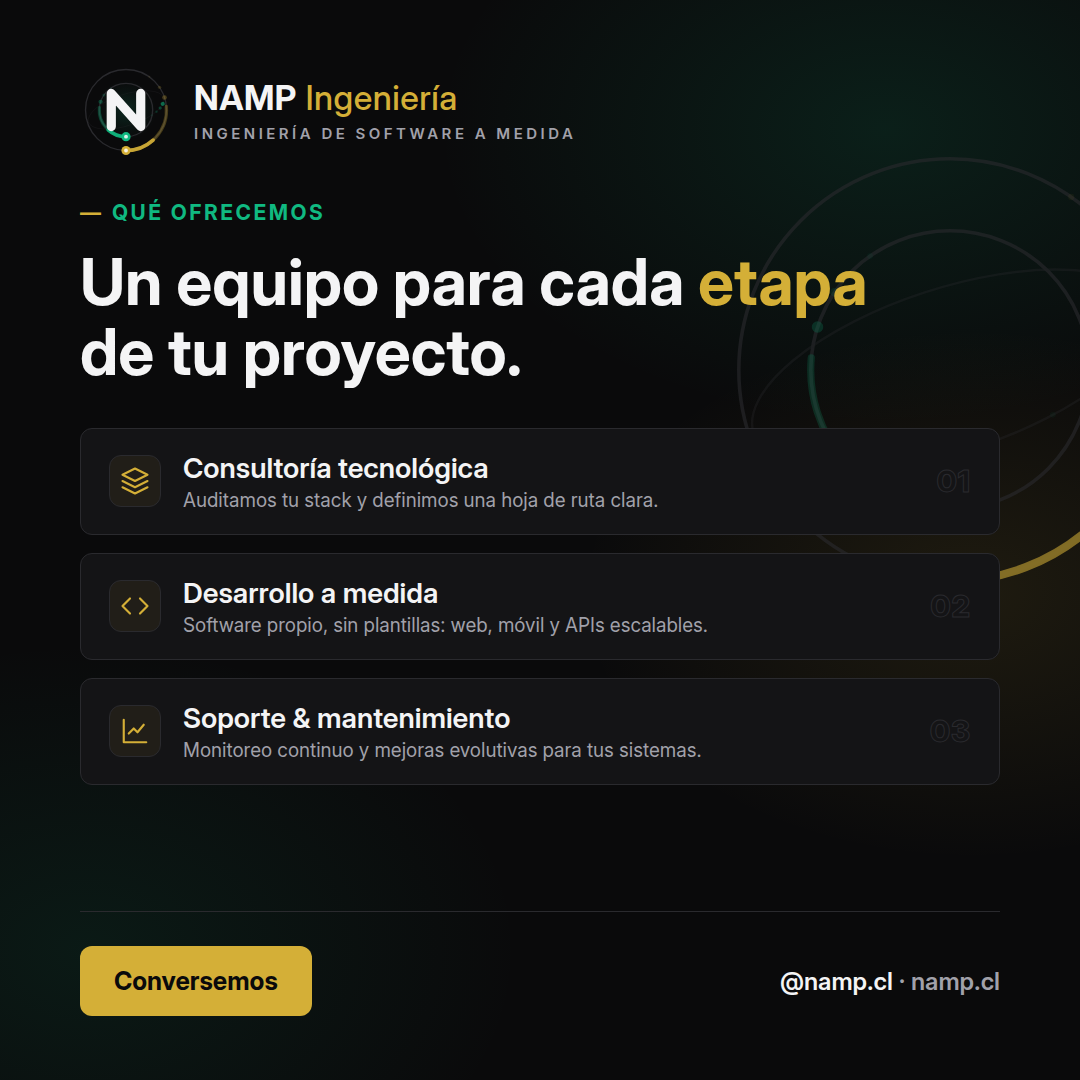
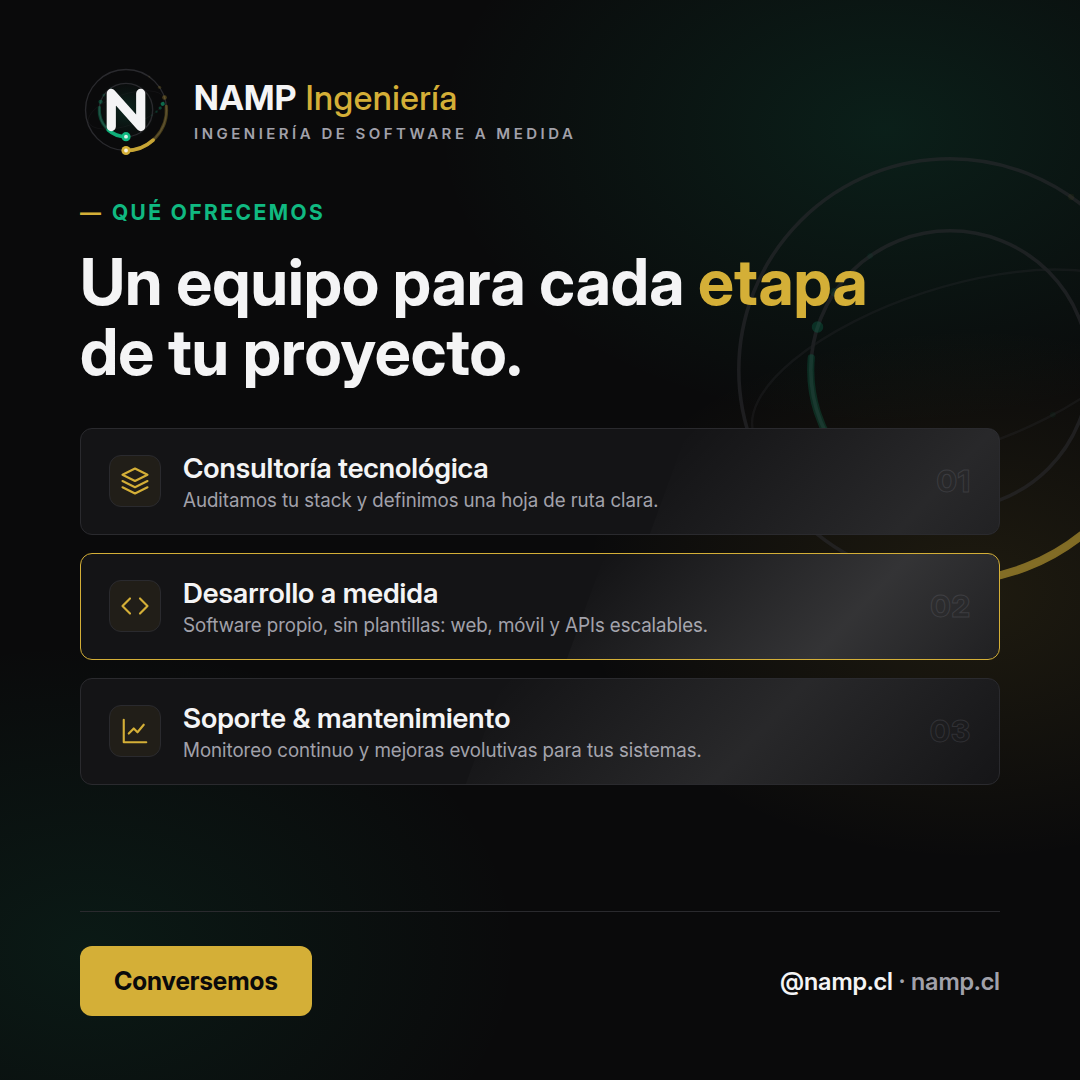
NAMP: efecto de luminosidad de cards en kit IG (post-02)
Sheen del sitio (.home__service::after) replicado congelado en las 3
cards + card central encendida (borde dorado, indice lit) como hover
estatico. Regla documentada en README del kit.

Generated with [Devin](https://devin.ai)

Changed region(s): [[0.6722, 0.4889, 0.9167, 0.6111]]

diff --git a/02_Outputs/NAMP/2026-11-06-media-kit-instagram/post-02-servicios.html b/02_Outputs/NAMP/2026-11-06-media-kit-instagram/post-02-servicios.html
@@ -109,6 +109,8 @@
   /* Lista de servicios — espejo de las cards del sitio (etapa 01/02/03) */
   .services { display: flex; flex-direction: column; gap: 18px; }
   .service {
+    position: relative;
+    overflow: hidden;
     display: flex;
     align-items: center;
     gap: 22px;
@@ -116,6 +118,34 @@
     border: 1px solid var(--border);
     border-radius: 12px;
     padding: 22px 28px;
+  }
+  /* Sheen del sitio (.home__service::after): banda de luz sesgada
+     congelada a mitad de barrido, posicion escalonada por card */
+  .service::after {
+    content: '';
+    position: absolute;
+    top: 0;
+    left: 55%;
+    width: 60%;
+    height: 100%;
+    background: linear-gradient(120deg,
+      transparent 0%,
+      rgba(244,244,245,0.09) 50%,
+      transparent 100%);
+    transform: skewX(-20deg);
+    pointer-events: none;
+  }
+  .service:nth-child(1)::after { left: 64%; }
+  .service:nth-child(3)::after { left: 44%; }
+  /* Estado encendido = hover del sitio: borde dorado + indice lit */
+  .service--lit { border-color: var(--gold); }
+  .service--lit .tile { border-color: var(--gold); }
+  .service--lit .num { -webkit-text-stroke-color: rgba(212,175,55,0.65); }
+  .service--lit::after {
+    background: linear-gradient(120deg,
+      transparent 0%,
+      rgba(244,244,245,0.14) 50%,
+      transparent 100%);
   }
   .service .tile {
     width: 52px; height: 52px;
@@ -277,7 +307,7 @@
           </div>
           <span class="num">01</span>
         </div>
-        <div class="service">
+        <div class="service service--lit">
           <span class="tile">
             <svg viewBox="0 0 24 24" fill="none" stroke-width="1.7" stroke-linecap="round" stroke-linejoin="round">
               <polyline points="16 18 22 12 16 6" />

diff --git a/log.md b/log.md
@@ -106,3 +106,4 @@ Bitácora maestra append-only. Resume lo relevante entre sesiones y apunta al lo
 - **HECHO** — NAMP Instagram: contenido semilla completo — post-01 corregido (3 servicios reales del sitio, no 6), post-02-servicios, post-03-kpp (POS real de demo.namp.cl capturado con Playwright), 4 portadas de destacadas. Toolchain: `render.sh` Linux + Inter empaquetada (`fonts/`+`brand/fonts.css`). Nueva skill propia `contenido-instagram` en store + instalada en repo y vault. Pendiente usuario: Fase 0 (handle/correo/tipo cuenta) → limpieza → publicar. Detalle: [[03_Proyectos/NAMP/log]] (2026-11-18).
 - **DECISIÓN** — NAMP IG Fase 0 resuelta desde namp.cl (sin decisiones nuevas): handle `@namp.cl` (fallbacks nampingenieria/namp_ingenieria), correo contacto@namp.cl, bio=og:description, cuenta profesional. Piezas re-renderizadas con handle en footer — contenido semilla 100% publicable. Solo quedan acciones físicas en la app IG: verificar disponibilidad del handle, limpieza de la cuenta vieja y publicar (2026-11-18).
 - **HECHO** — NAMP Instagram v4: realineación visual completa del media kit al sitio actual tras auditoría del usuario — isotipo cometa del hero, eyebrow con guion dorado, ambient 3 halos, tiles/índices/radios/CTAs idénticos a namp.cl. 14 fuentes HTML/SVG actualizadas, 11 PNG re-renderizados y verificados visualmente, espejo resincronizado. Detalle: [[03_Proyectos/NAMP/log]] (2026-11-18).
+- **HECHO** — NAMP IG: efecto de luminosidad de las cards del sitio portado al media kit — post-02 con sheen congelado en las 3 cards + card central "encendida" (borde dorado, índice lit). Espejo actualizado (2026-11-18).

diff --git a/03_Proyectos/NAMP/log.md b/03_Proyectos/NAMP/log.md
@@ -163,3 +163,4 @@ Bitácora narrativa **append-only**: las entradas nuevas van al final, nunca se 
 - **HECHO** — Auditoría del media kit contra namp.cl en producción (petición del usuario por discrepancias de diseño): el kit arrastraba la iteración visual del 06-11 (arcos planos, 2 glows difuminados, tracking -2px, íconos alternados, índices sólidos, ghost CTA esmeralda). Se actualizaron las 14 fuentes HTML/SVG al sistema actual del sitio: isotipo cometa del hero (tramo caliente+difuso, chispas, núcleo blanco, cometa esmeralda de 5 partículas en el plano orbital), eyebrow con guion dorado `—`, ambient de 3 halos radiales, tiles 44px dorados, índices fantasma, radios 12px, CTA ghost con borde neutro.
 - **HECHO** — Re-render completo (`render.sh`) y revisión visual de las 11 piezas: post-01/02/03, avatar, 4 destacadas, 3 previews de plantilla — sin cortes ni solapes; post-03 mantiene el fix de la columna de texto.
 - **PENDIENTE (usuario)** — Sin cambios: acciones físicas en la app IG (verificar disponibilidad de `@namp.cl`, limpieza de cuenta vieja, setear perfil con los datos resueltos, publicar las 3 piezas).
+- **HECHO** — Efecto de luminosidad del sitio portado al kit: `.home__service::after` (banda de luz 120° skewX -20°) replicado como sheen congelado en las cards de post-02 (posición escalonada por card) + card "Desarrollo a medida" en estado encendido (borde dorado, tile lit, índice lit, sheen reforzado) como punto focal = hover estático. Regla documentada en README del kit.

diff --git a/02_Outputs/NAMP/2026-11-06-media-kit-instagram/README.md b/02_Outputs/NAMP/2026-11-06-media-kit-instagram/README.md
@@ -74,6 +74,11 @@ tracking amplio.
   tokens de la tabla; botones como el sitio (primary dorado, ghost con
   borde neutro — esmeralda solo al hover, inexistente en PNG).
 - No usar otros colores de acento: dorado = lujo/CTA, esmeralda = innovación/eyebrow.
+- Luminosidad de cards: replicar el sheen del sitio
+  (`.home__service::after` — banda de luz a 120°, sesgada -20°, ~9%
+  texto) como banda congelada con `::after`; una card puede ir
+  "encendida" (`.service--lit`: borde dorado + índice lit + sheen más
+  fuerte) como punto focal, tal como el hover real.
 - Contenido siempre real: servicios, precios y demos son los del sitio
   (`/servicios`, `/precios`, demo.namp.cl), nunca inventados.
 
